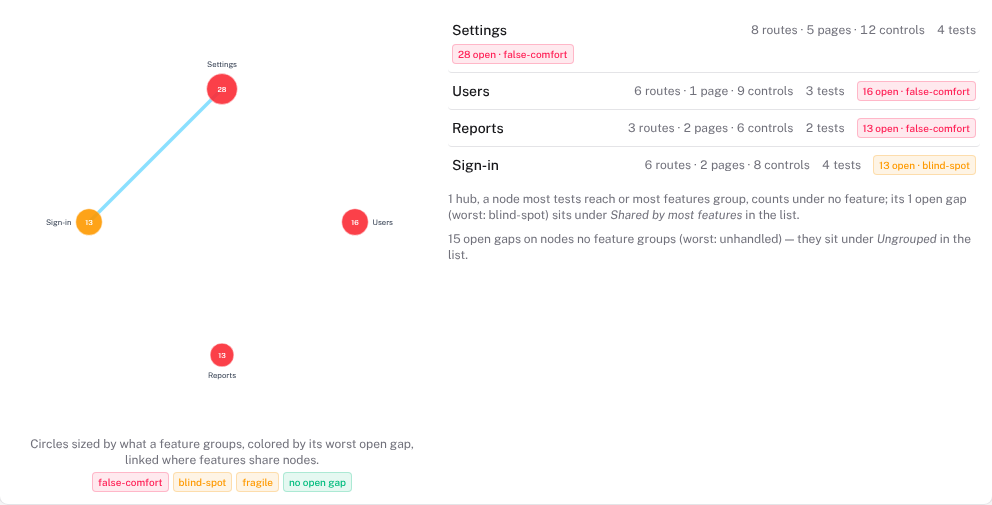
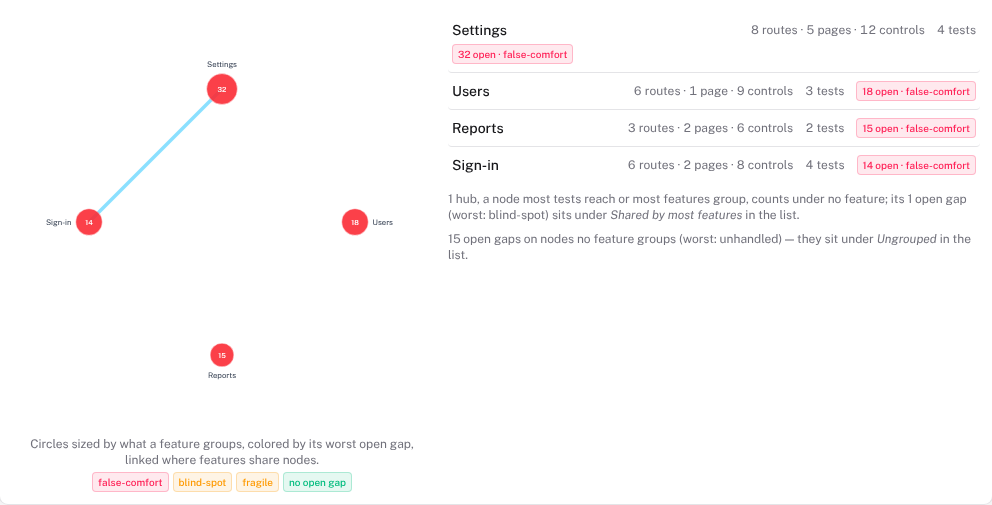
docs(docs): describe the new detectors, query-free routes and map health
The gap detector reference lists passed with errors, assertion-light and
catalog method no test calls with how each decides, and says routes drop the
query. The Test Map page shows the map health panel with a screenshot,
concepts define map health and widen false comfort, the test functions page
says the Test Map reads the catalog, and the proposal records items 7 and 11
and the panel as shipped.

Claude-Session: https://claude.ai/code/session_01VRZz879zihheCMp5M7Kv9i

diff --git a/proposals/test-map-accuracy.md b/proposals/test-map-accuracy.md
@@ -6,15 +6,16 @@ inputs it never writes, adds the signals a team already owns elsewhere, gives th
 accuracy, and joins it with the browser extension, which already sees the one thing the map cannot: the whole
 rendered surface of a page.
 
-**Status.** Proposed 2026-10-09. Part 1 items 1 to 4 and 8 to 10 have shipped, and items 5 and 6 in part: page reach
+**Status.** Proposed 2026-10-09. Part 1 items 1 to 4 and 7 to 11 have shipped, and items 5 and 6 in part: page reach
 along the journey (read from the locator pages the reporter already sends, so no new capture), control reach from
 the locator index, *API-only route* retired, nodes only untrusted tests reach raised as fragile, feature grouping
-beyond reach with hubs, surface drift limited to new surface, unhandled server-probe findings, muting in the digest
-and the tab, and churn and escape history for route, handler and dependency gaps. Part 3's labeled benchmark has
-shipped too. The rest is proposed. The findings table and the summary describe the demo as it was proposed; with the
-shipped items its detectors find 86 gaps, 21 of them controls no locator targets, 14 open gaps sit under
-*Ungrouped* instead of 48, and the benchmark scores every detector at precision 1 against labels that part from the
-capture in one place. The evidence comes from the web-dashboard demo project
+beyond reach with hubs, route keys without the query, surface drift limited to new surface, unhandled server-probe
+findings, muting in the digest and the tab, churn and escape history for route, handler and dependency gaps, and the
+*passed with errors*, *assertion-light* and *catalog method, no test calls* detectors. Part 3's labeled benchmark and
+map health panel have shipped too. The rest is proposed. The findings table and the summary describe the demo as it
+was proposed; with the shipped items its detectors find 95 gaps, 21 of them controls no locator targets, 15 open gaps
+sit under *Ungrouped* instead of 48, and the benchmark scores every detector against labels that part from the capture
+in three places. The evidence comes from the web-dashboard demo project
 (`shared/demo/demo-test-map.mjs`), whose gaps are exactly what the live detectors compute from its graph
 (`tests/unit/demo-test-map.test.ts` recomputes them on the seed). New wire fields, attachments and endpoints freeze
 at 1.0 and get an entry in [`1.0-stabilization.md`](1.0-stabilization.md).
@@ -100,8 +101,11 @@ capture.
    (finding 7). A run's diff runs from its last green run, so churn counts distinct diff bases, and escape history
    marks the whole diff that ended on the fix; per-commit files would make both exact. Still proposed: page files by convention, and age from the file's first commit, read once from the
    provider and cached.
-7. **Route keys without the query.** The node key drops the query; the parameter names move to `attrs.query`.
-   A migration merges the split nodes and their edges (finding 8).
+7. **Route keys without the query** (shipped). The node key drops the query, so `?page=` and `?role=` reach one
+   node (finding 8). Once per instance, after the migrations, the keys older versions wrote are rewritten: nodes and
+   edges that then share a key merge, probes keep the newer outcome, snooze signatures follow, and the gap ledger
+   keeps every verdict. The parameter names stay in the stored requests rather than in `attrs`, which an upsert
+   replaces whole and a declared route fills with its documented responses.
 8. **Drift on surface only, and not at the first build** (shipped). Drift is a new node no test reaches, as the
    first record defined it: a new node a test already reaches is covered. Feature nodes never drift, the run that
    built the project's graph first (pruned nodes included) raises none, and a link's title names it once
@@ -112,14 +116,20 @@ capture.
 10. **Muting everywhere** (shipped). A muted detector's rows leave the digest as well as the pull-request
     comment, and the Gaps tab lists them last, under *Muted detectors* (finding 11). The Home queue keeps them:
     each is a gap a person accepted.
-11. **Wire the cheap pure detectors.** *Passed with errors* (console errors, backend `Error` logs and background 5xx
-    on passing executions, all stored), *assertion-light* (from `step-analysis.ts`) and *catalog method no test
-    calls* (from `test_functions`) need no new data (finding 12).
+11. **Wire the cheap pure detectors** (shipped). *Passed with errors* reads the console, the backend logs and the
+    5xx of a test's newest passing default-branch execution, leaving out other origins' scripts, the browser's
+    failed-resource line, a response no server sent (the capture fixtures mark it `fulfilled`) and the console
+    errors of a test that fulfilled a failing one. *Assertion-light* reads the matchers
+    the locator index records per page. *Catalog method no test calls* matches a method's steps that name an element
+    against the locator index, since no table records calls; a method whose targets all come from parameters gets
+    no decision (finding 12). A gap on a test sits under its feature, one on a method under the feature owning its
+    pages.
 
 On the demo, items 1, 3, 4 and 8 took the detected gaps from 61 to 54: *API-only* went from 8 rows to 0,
 *reachable, unvisited* lost `/users/invite`, `/login` and `/settings/organization` stopped reading as
-single-covered, and three fragile gaps appeared for the dark-mode test's nodes. Still to come: *control nobody
-exercises* raising the controls none of the ten tests uses, and most of the 25 ungrouped gaps finding a feature.
+single-covered, and three fragile gaps appeared for the dark-mode test's nodes. Items 2 and 5 then raised the
+controls none of the ten tests uses and moved most of the 25 ungrouped gaps under a feature, and item 11 raised two
+passes with errors, four pages checked only for visibility and three catalog methods no test calls.
 
 ## Part 2: new inputs
 
@@ -203,8 +213,10 @@ and its origin (D3).
 Escape lift is the validity measure the first record asked for and never defined: the Google study it cites found
 predictions alone change nothing, so the map has to show that what it flags is where defects land.
 
-**A map health panel** on the Gaps tab lists the completeness numbers with the setup step behind each ("turn on
-the page inventory: wakes three detectors"), the way the setup checklist lists capabilities.
+**A map health panel** (shipped) on the Gaps tab lists the completeness numbers with the setup step behind each:
+reached pages with an inventory, tests whose locator calls name their page, observed routes with a handler, reached
+routes a probe checked, and the declared surface, the recorded diffs and the catalog counted on their own. Nodes with
+an owner join it once CODEOWNERS feeds `owns` edges.
 
 **The benchmark** (shipped) extends `tests/unit/demo-test-map.test.ts`. The model labels its ground truth
 (`expectedWebDashboardGaps`): what each test truly exercises, from a control or link label on each step (never
@@ -213,8 +225,10 @@ detector's definition applied to that truth gives the gaps it should raise. The 
 detector, on a copy of the seed whose gap ledger is emptied first, against `demo-test-map-benchmark.json`. Any score
 that changes fails until the fixture (`PIWI_UPDATE_DEMO_TEST_MAP=1`) records it, and a lower one is named. Before
 Part 1 it would have read a precision of 0 of 8 for *API-only route*, the detector Part 1 retired. Today every
-detector scores precision 1, against labels that part from the capture in one place: a test-id click the index
-cannot name, which costs *control nobody exercises* three of its 24 gaps and *single covering test* one of 25. The
+detector the capture can decide scores precision 1, against labels that part from the capture in three places: a
+test-id click the index cannot name, which costs *control nobody exercises* three of its 24 gaps and *single covering
+test* one of 25; a download check on no locator, which makes *assertion-light* raise one page of four wrongly; and a
+helper that names its link by parameter, which *catalog method no test calls* cannot decide, one of four. The
 flaky dark-mode test shares a page with a trusted test, so the untrusted label changes what *single covering test*
 should raise. More divergences, each a capture the map gets wrong in the field, would make the numbers say more.
 
@@ -261,11 +275,11 @@ Map, and its page keys were made equal to the map's precisely so the two could b
 
 ## Delivery
 
-1. Substrate, without new captures: items 1 to 4 and 8 to 10 of Part 1 (shipped), then 11, with the demo
-   fixture regenerated.
-2. Page files and age for node exposure, query-free route keys and their migration (items 6 and 7), with feature
-   grouping and hubs (item 5, shipped).
-3. The indicators of Part 3 and the map health panel, beside the labeled benchmark (shipped).
+1. Substrate, without new captures: items 1 to 4 and 8 to 11 of Part 1 (shipped), with the demo fixture
+   regenerated.
+2. Page files and age for node exposure (item 6), with query-free route keys and their migration (item 7) and
+   feature grouping and hubs (item 5) shipped.
+3. The indicators of Part 3, beside the labeled benchmark and the map health panel (shipped).
 4. The extension's read slice and gap layer, then *Record a test* (Part 4, items 1 and 2).
 5. The page as a source and the probe by hand (Part 4, items 3 and 4), behind a per-project opt-in.
 6. Inputs of Part 2, cheapest first: OpenAPI tags, router manifests, GraphQL operations, then the integrations.

diff --git a/apps/docs/features/scenario-gaps.md b/apps/docs/features/scenario-gaps.md
@@ -35,7 +35,7 @@ evidence. Each gap names its detector and its **[class](/guide/concepts#gap-clas
 | Class | Meaning | Example |
 |---|---|---|
 | **blind-spot** | nothing reaches it | `Observed 412 times over the last 30 runs, always 200` |
-| **false-comfort** | a [probe](/features/probes) broke it and every test still passed | `Tests pass when POST /api/orders breaks` |
+| **false-comfort** | the tests pass without checking it: a [probe](/features/probes) broke it, or the app logged an error, and they still passed | `Tests pass when POST /api/orders breaks` |
 | **fragile** | what reaches it could stop at any time | `Only checkout › coupon reaches this` |
 
 [Server probes](/features/probes#server-probes) add **findings** in two more classes, **unhandled** and **degraded**:
@@ -59,8 +59,7 @@ The tab opens on the **feature map**: one circle per feature (from the
 [`piwi:feature` tag](/reference/test-metadata)), sized by the routes, pages and controls it groups, colored by its
 worst open gap, and linked to the features it shares nodes with. A feature also groups what its tests miss nearby,
 such as the controls on its pages, and a **hub** most tests reach links no features
-([how features group](/reference/gap-detectors#features)). The ranked list beside it carries every feature, however
-many.
+([how features group](/reference/gap-detectors#features)).
 
 <figure>
   <img src="/screenshots/scenario-gaps-feature-map.png" alt="Feature map: four feature circles colored by worst gap, beside their counts">
@@ -68,9 +67,8 @@ many.
 </figure>
 
 A feature, or a gap's node, opens in the **feature graph**: the node in the middle, what leads into it on the left,
-what it leads to on the right, nodes colored by class and edges by kind. The picture shows the most severe few of each
-kind; the **neighbors** list under it has every neighbor, with its relation, worst gap and reaching tests. Click a
-node to recenter on it. Agents walk the same graph with the
+what it leads to on the right, nodes colored by class and edges by kind. The **neighbors** list under it has every
+neighbor; click a node to recenter on it. Agents walk the same graph with the
 [`get_feature_graph`](/reference/mcp-tools#get_feature_graph) MCP tool.
 
 <figure>
@@ -93,13 +91,11 @@ Every gap takes the same four verbs as an inbox item:
 - **Dismiss** with a reason: *not worth testing*, *covered elsewhere* (which records the covering test as reaching the
   node), or *wrong*.
 - **Covered by** names the test that covers it and closes the gap. A gap closed this way stays closed when its
-  detector raises it again. The covering test is recorded as reaching the node, but a test recorded by hand does not
-  count as observed reach of a control, so it never switches on *control nobody exercises* for the project.
+  detector raises it again, and the covering test is recorded as reaching the node.
 
 Gaps persist, so triage survives recomputation: a dismissed gap keeps its verdict, and a gap **closes itself** when
 the detector no longer finds it, for example once its node gains a trusted test, so "closed this month" is real. A
 closed gap that comes back reopens, unless it was closed with **Covered by**. Home lists the gaps accepted more than a week ago whose test was never written.
-The map is recomputed after every run and nightly.
 
 <figure>
   <img src="/diagrams/scenario-gaps-loop.svg" alt="Sources feed the Test Map, detectors, ranking and delivery; triage flows back">
@@ -112,10 +108,8 @@ rows leave the pull-request comment and the Gaps digest, its gaps sort last in t
 
 The top new gaps of each project are the **Gaps digest**
 [quality report](/features/quality-reports#what-a-report-contains); [schedule it](/features/quality-reports#report-schedules)
-to your channels. Agents list and draft gaps with
-[`list_scenario_gaps`](/reference/mcp-tools#list_scenario_gaps) and
-[`draft_scenario`](/reference/mcp-tools#draft_scenario), give a verdict with
-[`triage_gap`](/reference/mcp-tools#triage_gap), and the
+to your channels. Agents list, draft and triage gaps with the
+[MCP tools](/reference/mcp-tools#list_scenario_gaps), and the
 [write-the-missing-test](/features/agent-skills) skill drives the loop.
 
 ## What feeds the map
@@ -145,12 +139,20 @@ reaches is named a **declared, never hit** blind spot instead of staying invisib
   on a recompute and records each route's documented response codes, so a *success only* gap can name the error codes a
   route documents but never returned under test.
 
+### Map health
+
+Under the gap list, **map health** counts each input against what it could hold and names the detectors it wakes;
+an input that is short shows the step that fills it, so a quiet tab is not mistaken for a covered application.
+
+<figure>
+  <img src="/screenshots/scenario-gaps-map-health.png" alt="Map health: seven inputs of a Test Map, probes short at 7 of 16 routes">
+  <figcaption>Six inputs complete; probes reach 7 of 16 routes, with the step that adds the rest.</figcaption>
+</figure>
+
 ## What this is not
 
-- **Not coverage.** Every surface says *observed reach*.
 - **Not a test generator.** A gap proposes a scenario; the assertion is yours.
 - **Not a gate.** Uncovered changes can only warn; see [the gate flag](/features/uncovered-changes#the-gate-flag).
-- **Not a percentage.** Counts per class, ranked by exposure.
 
 The Test Map and its server probes are optional: [decline](/operate/capabilities#declining-a-capability) either per
 project or for the instance, and these surfaces disappear.

diff --git a/apps/docs/reference/gap-detectors.md b/apps/docs/reference/gap-detectors.md
@@ -29,8 +29,21 @@ without it.
 | **Orphan test** | fragile | a test whose every reached node disappeared from the last 30 runs | nothing more | `All 3 node(s) it reaches disappeared from recent runs` |
 | **Fix did not hold** | fragile | a failure cluster whose fix later regressed | nothing more | `Fixed in a1b2c3d · regressed 6 days later` |
 | **Not noticed** | false-comfort | a route a probe broke while no test noticed | [probes](/features/probes) | `A probe (status-500) on POST /api/orders did not make checkout › pay fail` |
+| **Passed with errors** | false-comfort | a test whose newest default-branch execution passed while the application reported an error: a 5xx from one of its routes, a backend log at error level, or a console error from its own origin | nothing more; backend logs need the [instrumentation](/guide/backend-logs) | `Passed · run #73 · the backend logged an error on PATCH /api/orgs/current` |
+| **Assertion-light** | false-comfort | a page some test asserts on, every check there only that an element is visible, hidden, attached or in the viewport | the locator index | `2 tests assert on this page, only that elements are present` |
+| **Catalog method, no test calls** | blind-spot | a page-object method or helper on a reached page that no test runs | the [test functions catalog](/features/test-functions) | `./pages/UsersPage · goToNextPage · page reached by 3, called by 0` |
 | **Unprobed dependency** | false-comfort | a dependency a route's handler calls that no probe has failed | server spans | `Called by 4 route(s) · no probe has checked what happens when it fails` |
 | **Not handled** | unhandled, degraded | the application did not cope with a server probe's fault; a finding, not a gap | [server probes](/features/probes#server-probes) | `A server probe made POST /api/orders fail; the application did not handle it` |
+
+*Passed with errors* leaves out a console line from another origin's script and the browser's own *Failed to load
+resource* line. A response no server sent, such as one the test's route handler fulfilled, is no 5xx of the
+application, and a test that fulfills a failing response means to see the page fail, so its console errors do not
+count either.
+*Assertion-light* counts any other matcher (a text, a count, a value, an attribute) as a value check, and so is a read
+of an element the index cannot name; an `expect` on no locator, such as a downloaded file's name, never reaches the
+index, so a page checked only that way reads as light. A test calls a catalog method when one of its default-branch
+locator uses does what one of the method's steps does, on the element that step names by test id or name, on a page
+its URL pattern matches. A method whose every target comes from a parameter gets no decision.
 
 A trusted test is one that is not flaky, not quarantined, and not skipped in its latest run. *Changed, unreached* is
 covered on [Uncovered changes in pull requests](/features/uncovered-changes). A finding never closes itself; triage it.
@@ -73,8 +86,10 @@ A feature groups the routes, pages and controls the tests tagged with it reach. 
 feature reaches, with a confidence below one: the controls on its pages (0.8), the pages they link to under the same
 first path segment (0.6) and those pages' controls (0.5), and the declared routes under the same resource path as a
 route it reaches, `/api/v1/orders` for `GET /api/v1/orders/:id` (0.6). A gap sits under one feature: the one whose
-tests reach its node, else the most confident inference. So the map shows what a feature misses, not only what its
-tests touch. Dependencies, links, and pages or declared routes under other paths stay ungrouped.
+tests reach its node, else the most confident inference. A gap on a test sits under the test's feature, and one on a
+catalog method under the feature owning most of the pages its URL pattern matches. So the map shows what a feature
+misses, not only what its tests touch. Dependencies, links, and pages or declared routes under other paths stay
+ungrouped.
 
 With three features or more, a node more than half the tests reach, or that more than half the features and three at
 least group, is a **hub**, such as the session route nearly every test calls. The feature graph still draws it, but
@@ -89,6 +104,7 @@ The graph stays proportional to the application's surface, not its data volume:
   project's configured route origins); analytics beacons and CDN assets never become nodes.
 - **Pages are path patterns.** `/orders/123` and `/orders/456` are one node, as is the same path from staging and
   production.
+- **Routes drop the query.** `GET /api/orders?page=2` and `GET /api/orders?status=open` are one node, `GET /api/orders`.
 - **Controls and links are templated.** Dates, ids and numbers in an accessible name become placeholders, and each
   page keeps at most 200 controls and 200 links.
 - **Branches stay separate.** A default-branch run writes the canonical graph; any other branch writes rows tagged

diff --git a/apps/docs/guide/concepts.md b/apps/docs/guide/concepts.md
@@ -330,7 +330,8 @@ it, snooze it, dismiss it with a reason, or mark it covered by an existing test.
 How serious a gap is:
 
 - **blind-spot**: nothing reaches it.
-- **false-comfort**: a [probe](#probe) broke it and every test still passed.
+- **false-comfort**: the tests pass without checking it: a [probe](#probe) broke it and every test still passed, the
+  application reported an error during a passing test, or every check on a page is only that elements are there.
 - **fragile**: what reaches it could stop at any time: a single trusted test, a test whose every reached node
   disappeared, or a fix that did not hold.
 
@@ -367,6 +368,14 @@ is a *declared, never hit* gap.
 The controls (role and accessible name) and links the reporter records on each visited page of a passing run, so the
 Test Map knows what a page offers beyond what the tests clicked. Field values are never recorded. Off by default:
 turn it on with `capturePageInventory`.
+
+### Map health
+
+How complete a project's Test Map is, per input: the page inventory, the pages of locator calls, route handlers,
+probes, the declared surface, change history and the function catalog, each against what it could hold, with the
+detectors it wakes. A detector stays silent without its input, so a quiet Gaps tab can mean a map that cannot see; the
+panel under the gap list names the step behind each input that is short. See
+[Scenario gaps & the Test Map](/features/scenario-gaps#map-health).
 
 ### URL pattern
 

diff --git a/apps/docs/features/test-functions.md b/apps/docs/features/test-functions.md
@@ -38,6 +38,7 @@ Extraction is deliberately conservative. A function that branches on its argumen
 - **While recording**, the extension live-ranks which catalog function the steps so far look like, and on **Copy as TypeScript** matched steps collapse into a call to your function; anything unmatched stays as plain locators. The matcher only ever *selects among* the functions you registered — it never invents one. See the [browser extension](./extension#what-it-does).
 - **While recording from your editor**, each run of steps a function performs is written as a call to it as soon as its last step is recorded, a page object taken from the test's fixtures when the file's tests take it there. See [Record tests from the editor](./editor-recording).
 - **Against the current page**, the popup's **Test functions** checklist scores every function in the active project's catalog: ready to use here, a partial match, or not found on this page.
+- **In the Test Map**, a method or helper on a page the suite reaches that no test runs is a *catalog method, no test calls* [scenario gap](./scenario-gaps): the cheapest test to add, since its steps exist. A step whose target comes from a parameter names no element, so a function whose every target does gets no verdict. See [Gap detectors](/reference/gap-detectors).
 
 ## Related
 

diff --git a/apps/application/AGENTS.md b/apps/application/AGENTS.md
@@ -725,7 +725,8 @@ share `app/demo/db.client.ts`.
 - **The web-dashboard Test Map** (`shared/demo/demo-test-map.mjs`) is checked against the live recompute by
   `tests/unit/demo-test-map.test.ts`: the seeded gaps (`demo-test-map-gaps.json`), control reach and feature groups
   must be what a recompute writes. The model also labels its ground truth (`expectedWebDashboardGaps`: a control or
-  link label on each step, the flaky tests), and the test scores each detector's precision and recall against it
+  link label on each step, the flaky tests, the catalog's callers, the passing tests the application errored under),
+  and the test scores each detector's precision and recall against it
   (`demo-test-map-benchmark.json`): any changed score fails, and a lower one is named. After a change to the model or
   a detector, run the test with `PIWI_UPDATE_DEMO_TEST_MAP=1`, format both files, re-seed and run it again; say in the
   commit why a score moved.
